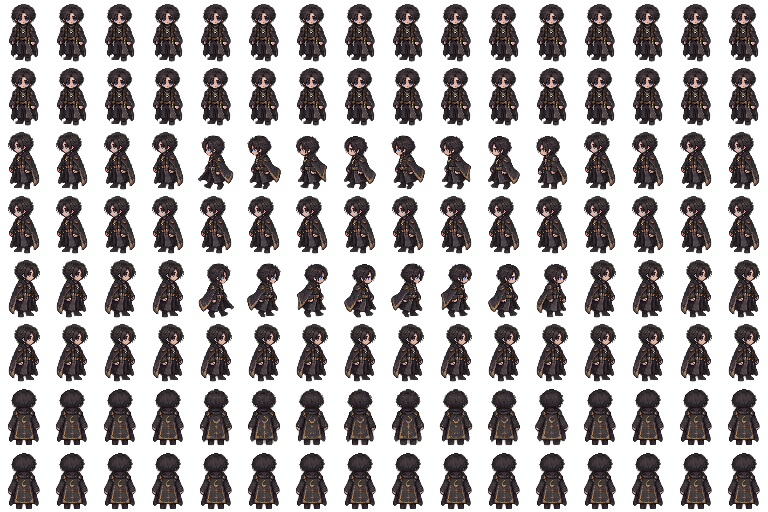
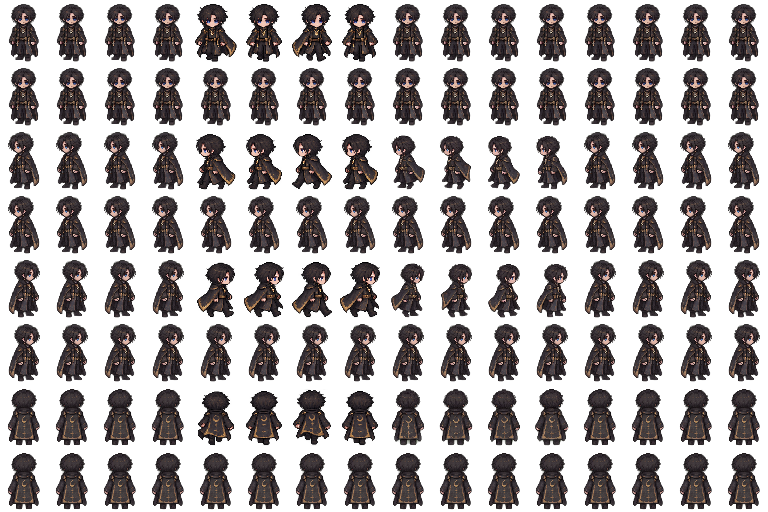
feat(peren): caminhada oficial de quatro direções no Modo Livre
* feat(peren): integrar caminhada 4 direções de 3 frames no atlas Phaser atual

* build(peren): gerar atlas v3 reproduzível a partir dos 12 quadros novos

* docs(peren): provenance quadro a quadro da caminhada nova

* feat(peren): documentar 4 caminhadas reais e ciclo 180ms no atlas

* feat(peren): documentar 4 caminhadas reais e ciclo 180ms no atlas

* feat(peren): mostrar caminhada atualizada em quatro direções na galeria do Pages

* build(peren): invalidar PWA antigo e precachear caminhada oficial v3

* build(peren): invalidar PWA antigo e precachear caminhada oficial v3

* test(peren): validar atlas v3 e manter regressões v2 independentes

* test(peren): validar atlas v3 e manter regressões v2 independentes

* test(peren): validar atlas v3 e manter regressões v2 independentes

* test(peren): validar atlas v3 e manter regressões v2 independentes

* test(peren): comparar 12 frames oficiais pixel a pixel, preservar 112 frames legados

* ci(peren): executar testes de pixels e integridade dos ciclos novos de caminhada

* docs(peren): explicar integração da caminhada oficial 4×3 e limites técnicos

* docs(peren): explicar integração da caminhada oficial 4×3 e limites técnicos

* docs(peren): explicar integração da caminhada oficial 4×3 e limites técnicos

diff --git a/phaser-demo-m1hf/demo-sw.js b/phaser-demo-m1hf/demo-sw.js
@@ -1,8 +1,8 @@
-const CACHE="peren-phaser-m1hf-preview-qa-stable-v2-20261021";
+const CACHE="peren-phaser-m1hf-preview-walk-v3-20261021";
 
 const CACHE_PREFIX="peren-phaser-m1hf-preview-";
 
-const FILES=["./","./art/battle/murin-battle.webp","./art/characters/peren/atlas.json","./art/characters/peren/peren-atlas.png","./art/characters/peren/portrait-cast.png","./art/characters/peren/portrait-hurt.png","./art/characters/peren/portrait.png","./art/monsters/mob-ettercap/atlas.png","./art/monsters/mob-ettercap/meta.json","./art/monsters/mob-ettercap/portrait.png","./art/monsters/mob-fungo-violeta/atlas.png","./art/monsters/mob-fungo-violeta/meta.json","./art/monsters/mob-fungo-violeta/portrait.png","./art/monsters/mob-galho-infectado/atlas.png","./art/monsters/mob-galho-infectado/meta.json","./art/monsters/mob-galho-infectado/portrait.png","./art/regions/floresta-murin/bush.png","./art/regions/floresta-murin/exit.png","./art/regions/floresta-murin/ground-tiles.png","./art/regions/floresta-murin/herb.png","./art/regions/floresta-murin/mushroom.png","./art/regions/floresta-murin/rune.png","./art/regions/floresta-murin/stone.png","./art/regions/floresta-murin/tree-0.png","./art/regions/floresta-murin/tree-1.png","./art/regions/floresta-murin/tree-2.png","./art/regions/portomonte/visao-carcaca.webp","./art/vfx/arcane.png","./art/vfx/fire.png","./art/vfx/ice.png","./art-m1h/characters/peren/peren-atlas.png","./art-m1h/characters/peren/portrait-cast.png","./art-m1h/characters/peren/portrait-hurt.png","./art-m1h/characters/peren/portrait.png","./art-m1h/characters/peren/report.json","./art-m1hb/characters/peren/peren-atlas.png","./art-m1hb/characters/peren/portrait-cast.png","./art-m1hb/characters/peren/portrait-hurt.png","./art-m1hb/characters/peren/portrait.png","./art-m1hb/characters/peren/report.json","./art-m1hc/characters/peren/peren-atlas.png","./art-m1hc/characters/peren/portrait-cast.png","./art-m1hc/characters/peren/portrait-hurt.png","./art-m1hc/characters/peren/portrait.png","./art-m1hc/characters/peren/report.json","./art-m1hd/characters/peren/peren-atlas.png","./art-m1hd/characters/peren/portrait-cast.png","./art-m1hd/characters/peren/portrait-hurt.png","./art-m1hd/characters/peren/portrait.png","./art-m1hd/characters/peren/report.json","./art-m1he/monsters/mob-ettercap/atlas.png","./art-m1he/monsters/mob-ettercap/portrait.png","./art-m1he/monsters/mob-fungo-violeta/atlas.png","./art-m1he/monsters/mob-fungo-violeta/portrait.png","./art-m1he/monsters/mob-galho-infectado/atlas.png","./art-m1he/monsters/mob-galho-infectado/portrait.png","./art-m1he/monsters/report.json","./art-m1hf/kenney-monster-builder/arm_darkB.png","./art-m1hf/kenney-monster-builder/body_darkC.png","./art-m1hf/kenney-monster-builder/detail_dark_eye.png","./art-m1hf/kenney-monster-builder/leg_darkB.png","./art-m1hf/kenney-mushrooms/shroomRedMid.png","./art-m1hf/kenney-mushrooms/stemShroom.png","./art-m1hf/kenney-mushrooms/tallShroom_red.png","./art-m1hf/kenney-mushrooms/tinyShroom_red.png","./art-m1hf/kenney-platformer-spider/spider.png","./art-m1hf/kenney-platformer-spider/spider_dead.png","./art-m1hf/kenney-platformer-spider/spider_hit.png","./art-m1hf/kenney-platformer-spider/spider_walk1.png","./art-m1hf/kenney-platformer-spider/spider_walk2.png","./art-m1hf/monsters/mob-ettercap/atlas.png","./art-m1hf/monsters/mob-ettercap/portrait.png","./art-m1hf/monsters/mob-fungo-violeta/atlas.png","./art-m1hf/monsters/mob-fungo-violeta/portrait.png","./art-m1hf/monsters/mob-galho-infectado/atlas.png","./art-m1hf/monsters/mob-galho-infectado/portrait.png","./art-m1hf/monsters/report.json","./art-m1hf/oga-forest/forest_tiles.png","./asset-audition.html","./assets/game-B5Gp97dd.js","./assets/game-BTyR319X.css","./compare.html","./data/cidades.json","./data/itens.json","./data/magias.json","./data/monstros.json","./data/receitas.json","./field-gamepad-adapter.js","./field-gamepad.js","./icons/icon-192.png","./icons/icon-512.png","./index.html","./manifest.webmanifest","./review.html","./scenes/merchants/alina.svg","./scenes/merchants/jonathan.svg","./scenes/merchants/sofia.svg","./scenes/portomonte-market.svg","./scenes/portomonte-workshop.svg","./teste.html","./peren-arte.html","./art/characters/peren/official-v2/peren-portrait-official-128.png","./art/characters/peren/official-v2/peren-portrait-official-256.png","./art/characters/peren/official-v2/peren-actor-official-128.png","./art/characters/peren/official-v2/peren-atlas-official-48x64.png","./art/characters/peren/official-v2/runtime-provenance.json"];
+const FILES=["./","./art/battle/murin-battle.webp","./art/characters/peren/atlas.json","./art/characters/peren/peren-atlas.png","./art/characters/peren/portrait-cast.png","./art/characters/peren/portrait-hurt.png","./art/characters/peren/portrait.png","./art/monsters/mob-ettercap/atlas.png","./art/monsters/mob-ettercap/meta.json","./art/monsters/mob-ettercap/portrait.png","./art/monsters/mob-fungo-violeta/atlas.png","./art/monsters/mob-fungo-violeta/meta.json","./art/monsters/mob-fungo-violeta/portrait.png","./art/monsters/mob-galho-infectado/atlas.png","./art/monsters/mob-galho-infectado/meta.json","./art/monsters/mob-galho-infectado/portrait.png","./art/regions/floresta-murin/bush.png","./art/regions/floresta-murin/exit.png","./art/regions/floresta-murin/ground-tiles.png","./art/regions/floresta-murin/herb.png","./art/regions/floresta-murin/mushroom.png","./art/regions/floresta-murin/rune.png","./art/regions/floresta-murin/stone.png","./art/regions/floresta-murin/tree-0.png","./art/regions/floresta-murin/tree-1.png","./art/regions/floresta-murin/tree-2.png","./art/regions/portomonte/visao-carcaca.webp","./art/vfx/arcane.png","./art/vfx/fire.png","./art/vfx/ice.png","./art-m1h/characters/peren/peren-atlas.png","./art-m1h/characters/peren/portrait-cast.png","./art-m1h/characters/peren/portrait-hurt.png","./art-m1h/characters/peren/portrait.png","./art-m1h/characters/peren/report.json","./art-m1hb/characters/peren/peren-atlas.png","./art-m1hb/characters/peren/portrait-cast.png","./art-m1hb/characters/peren/portrait-hurt.png","./art-m1hb/characters/peren/portrait.png","./art-m1hb/characters/peren/report.json","./art-m1hc/characters/peren/peren-atlas.png","./art-m1hc/characters/peren/portrait-cast.png","./art-m1hc/characters/peren/portrait-hurt.png","./art-m1hc/characters/peren/portrait.png","./art-m1hc/characters/peren/report.json","./art-m1hd/characters/peren/peren-atlas.png","./art-m1hd/characters/peren/portrait-cast.png","./art-m1hd/characters/peren/portrait-hurt.png","./art-m1hd/characters/peren/portrait.png","./art-m1hd/characters/peren/report.json","./art-m1he/monsters/mob-ettercap/atlas.png","./art-m1he/monsters/mob-ettercap/portrait.png","./art-m1he/monsters/mob-fungo-violeta/atlas.png","./art-m1he/monsters/mob-fungo-violeta/portrait.png","./art-m1he/monsters/mob-galho-infectado/atlas.png","./art-m1he/monsters/mob-galho-infectado/portrait.png","./art-m1he/monsters/report.json","./art-m1hf/kenney-monster-builder/arm_darkB.png","./art-m1hf/kenney-monster-builder/body_darkC.png","./art-m1hf/kenney-monster-builder/detail_dark_eye.png","./art-m1hf/kenney-monster-builder/leg_darkB.png","./art-m1hf/kenney-mushrooms/shroomRedMid.png","./art-m1hf/kenney-mushrooms/stemShroom.png","./art-m1hf/kenney-mushrooms/tallShroom_red.png","./art-m1hf/kenney-mushrooms/tinyShroom_red.png","./art-m1hf/kenney-platformer-spider/spider.png","./art-m1hf/kenney-platformer-spider/spider_dead.png","./art-m1hf/kenney-platformer-spider/spider_hit.png","./art-m1hf/kenney-platformer-spider/spider_walk1.png","./art-m1hf/kenney-platformer-spider/spider_walk2.png","./art-m1hf/monsters/mob-ettercap/atlas.png","./art-m1hf/monsters/mob-ettercap/portrait.png","./art-m1hf/monsters/mob-fungo-violeta/atlas.png","./art-m1hf/monsters/mob-fungo-violeta/portrait.png","./art-m1hf/monsters/mob-galho-infectado/atlas.png","./art-m1hf/monsters/mob-galho-infectado/portrait.png","./art-m1hf/monsters/report.json","./art-m1hf/oga-forest/forest_tiles.png","./asset-audition.html","./assets/game-B5Gp97dd.js","./assets/game-BTyR319X.css","./compare.html","./data/cidades.json","./data/itens.json","./data/magias.json","./data/monstros.json","./data/receitas.json","./field-gamepad-adapter.js","./field-gamepad.js","./icons/icon-192.png","./icons/icon-512.png","./index.html","./manifest.webmanifest","./review.html","./scenes/merchants/alina.svg","./scenes/merchants/jonathan.svg","./scenes/merchants/sofia.svg","./scenes/portomonte-market.svg","./scenes/portomonte-workshop.svg","./teste.html","./peren-arte.html","./art/characters/peren/official-v2/peren-portrait-official-128.png","./art/characters/peren/official-v2/peren-portrait-official-256.png","./art/characters/peren/official-v2/peren-actor-official-128.png","./art/characters/peren/official-v2/peren-atlas-official-48x64.png","./art/characters/peren/official-v2/runtime-provenance.json","./art/characters/peren/official-v3/peren-atlas-official-48x64.png","./art/characters/peren/official-v3/peren-caminhada-3x4-original-160x190.png","./art/characters/peren/official-v3/runtime-provenance.json"];
 
 self.addEventListener('install',event=>{event.waitUntil(caches.open(CACHE).then(cache=>cache.addAll(FILES)).then(()=>self.skipWaiting()))});
 

diff --git a/phaser-demo-m1hf/peren-arte.html b/phaser-demo-m1hf/peren-arte.html
@@ -32,19 +32,20 @@ small{display:block;color:#b9c6bf}.notice{padding:13px;border-left:3px solid #dd
 <div class="card"><canvas width="48" height="64" data-dir="2" aria-label="Peren olhando para a direita"></canvas><strong>Direita</strong></div>
 <div class="card"><canvas width="48" height="64" data-dir="3" aria-label="Peren de costas"></canvas><strong>Costas</strong></div>
 </div>
-<p class="notice">AUDITORIA V2: câmera/escala/posição dos pés estabilizadas; cores originais preservadas. Há caminhada lateral e movimento de capa visto por trás. Frente sem passos e gestos de interação, coleta, ferimento, magia ou ataque são quadros estáticos intencionais até recebermos sprites próprios. Nada disso representa uma animação nova aprovada.</p>
+<p class="notice">ATUALIZAÇÃO V3: caminhada real com três quadros por direção — frente, esquerda, direita e costas. Sequência 1 → 2 → 3 → 2; 180 ms/quadro. O terceiro quadro da esquerda já veio espelhado no pacote original. Ações de coleta, interação, ferimento, magia e ataque continuam com poses estáticas até receberem desenhos próprios.</p>
 <small id="status" role="status">Preparando atlas...</small>
 </main>
 <script>
 const picture=new Image();
-picture.src="./art/characters/peren/official-v2/peren-atlas-official-48x64.png";
+picture.src="./art/characters/peren/official-v3/peren-atlas-official-48x64.png";
 const directions=[...document.querySelectorAll("canvas[data-dir]")];
 const actions=["idle","walk","run","interact","gather","hurt","cast","attack"];
 let ready=false,last=0,frame=0;
-picture.onload=()=>{if(picture.naturalWidth!==768||picture.naturalHeight!==512){document.getElementById("status").textContent="Erro nas dimensões do atlas.";return}ready=true;document.getElementById("status").textContent="128 quadros · 48×64 px · correção de alinhamento · movimentos incompletos sinalizados";requestAnimationFrame(render)};
+picture.onload=()=>{if(picture.naturalWidth!==768||picture.naturalHeight!==512){document.getElementById("status").textContent="Erro nas dimensões do atlas.";return}ready=true;document.getElementById("status").textContent="128 quadros · 48×64 px · caminhada 4 direções × 3 poses (1–2–3–2) · 180 ms";requestAnimationFrame(render)};
 picture.onerror=()=>{document.getElementById("status").textContent="Não foi possível carregar o atlas offline."};
 function render(time){
- if(ready&&time-last>=125){
+ const isWalk=document.getElementById("action").value==="walk";
+ if(ready&&time-last>=(isWalk?180:125)){
   last=time;frame=(frame+1)%4;
   const action=Math.max(0,actions.indexOf(document.getElementById("action").value));
   for(const canvas of directions){

diff --git a/phaser-demo/demo-sw.js b/phaser-demo/demo-sw.js
@@ -1,4 +1,4 @@
-const CACHE="peren-phaser-demo-peren-stable-v2-20261021";
+const CACHE="peren-phaser-demo-peren-walk-v3-20261021";
 
 const FILES=["./","./art/battle/murin-battle.webp","./art/characters/peren/atlas.json","./art/characters/peren/peren-atlas.png","./art/characters/peren/portrait.png","./art/monsters/mob-ettercap/atlas.png","./art/monsters/mob-ettercap/meta.json","./art/monsters/mob-ettercap/portrait.png","./art/monsters/mob-fungo-violeta/atlas.png","./art/monsters/mob-fungo-violeta/meta.json","./art/monsters/mob-fungo-violeta/portrait.png","./art/monsters/mob-galho-infectado/atlas.png","./art/monsters/mob-galho-infectado/meta.json","./art/monsters/mob-galho-infectado/portrait.png","./art/regions/floresta-murin/bush.png","./art/regions/floresta-murin/exit.png","./art/regions/floresta-murin/ground-tiles.png","./art/regions/floresta-murin/herb.png","./art/regions/floresta-murin/mushroom.png","./art/regions/floresta-murin/rune.png","./art/regions/floresta-murin/stone.png","./art/regions/floresta-murin/tree-0.png","./art/regions/floresta-murin/tree-1.png","./art/regions/floresta-murin/tree-2.png","./art/vfx/arcane.png","./art/vfx/fire.png","./art/vfx/ice.png","./assets/index-B4hcnmDl.js","./data/cidades.json","./data/itens.json","./data/magias.json","./data/monstros.json","./data/receitas.json","./icons/icon-192.png","./icons/icon-512.png","./index.html","./manifest.webmanifest"];
 

diff --git a/ferramentas/gerar_peren_caminhada_v3.py b/ferramentas/gerar_peren_caminhada_v3.py
@@ -1,0 +1,89 @@
+#!/usr/bin/env python3
+"""Rebuild 128-frame runtime atlas with 12 new approved 4-direction walking frames.
+Preserves existing non-walk pose mappings and 48x64 frame indices. No fabrication of other actions.
+"""
+from __future__ import annotations
+from pathlib import Path
+import zipfile,hashlib,io,json,argparse
+from PIL import Image
+
[1 lines of base64/hex data omitted]
+BASE='Peren_Kerrhylon_Assets/'
+NAMES=['01_idle_tres_quartos_esquerda','02_idle_frente','03_idle_tres_quartos_direita','04_idle_perfil_direito','05_idle_costas_a','06_idle_costas_b','07_caminhada_esquerda_passo_01','08_caminhada_esquerda_passo_02','09_caminhada_esquerda_passo_03','10_caminhada_esquerda_passo_04','11_caminhada_esquerda_passo_05','12_idle_costas_c','13_costas_capa_01','14_costas_capa_02','15_costas_capa_03','16_costas_capa_04','17_frente_capa_em_movimento','18_costas_capa_05']
+ACTIONS=['idle','walk','run','interact','gather','hurt','cast','attack']
+DIRECTIONS=['down','left','right','up']
+OLD={
+'down':{'idle':[1]*4,'walk':[1]*4,'run':[1]*4,'interact':[1]*4,'gather':[1]*4,'hurt':[1]*4,'cast':[1]*4,'attack':[1]*4},
+'left':{'idle':[0]*4,'walk':[6,7,8,9],'run':[7,8,9,10],'interact':[0]*4,'gather':[0]*4,'hurt':[0]*4,'cast':[0]*4,'attack':[0]*4},
+'right':{'idle':[0]*4,'walk':[6,7,8,9],'run':[7,8,9,10],'interact':[0]*4,'gather':[0]*4,'hurt':[0]*4,'cast':[0]*4,'attack':[0]*4},
+'up':{'idle':[4]*4,'walk':[12,13,14,15],'run':[13,14,15,17],'interact':[4]*4,'gather':[4]*4,'hurt':[4]*4,'cast':[4]*4,'attack':[4]*4},
+}
+
+def source_zip(zpath:Path):
+    data=zpath.read_bytes(); digest=hashlib.sha256(data).hexdigest()
+    if digest!=OFFICIAL_ZIP_SHA256: raise ValueError('Pacote novo diferente do ZIP aprovado: '+digest)
+    return zipfile.ZipFile(io.BytesIO(data)),digest
+
+def build(zpath:Path,out:Path):
+    out.mkdir(parents=True,exist_ok=True)
+    z,digest=source_zip(zpath)
+    def image(n):
+        return Image.open(io.BytesIO(z.read(BASE+n))).convert('RGBA')
+    poses=[image('charset/alinhados/'+n+'.png') for n in NAMES]
+    walk={direction:[image(f'charset/caminhada/frames/{direction}/peren_{direction}_frame_{i:02d}.png') for i in [1,2,3]] for direction in ['frente','esquerda','direita','costas']}
+    assert all(im.size==(160,190) for im in poses)
+    assert all(im.size==(160,190) for frames in walk.values() for im in frames)
+    srcatlas=image('charset/caminhada/atlas/peren_caminhada_3col_4lin_160x190.png')
+    assert srcatlas.size==(480,760)
+    for row,d in enumerate(['frente','esquerda','direita','costas']):
+        for col in range(3):
+            assert srcatlas.crop((col*160,row*190,(col+1)*160,(row+1)*190)).tobytes()==walk[d][col].tobytes()
+    # Existing atlas v2 computed in-place so no change to non-walk frames.
+    atlas=Image.new('RGBA',(768,512))
+    history=[]
+    for di,direction in enumerate(DIRECTIONS):
+        for ai,action in enumerate(ACTIONS):
+            for fi in range(4):
+                idx=di*32+ai*4+fi
+                iswalk=action=='walk'
+                if iswalk:
+                    source_index=[0,1,2,1][fi]
+                    source_dir={'down':'frente','left':'esquerda','right':'direita','up':'costas'}[direction]
+                    source=walk[source_dir][source_index]
+                    # New official sprites are wider than old; common registration retains cape/hair.
+                    # Fixed crop/scale/anchor; do NOT normalize bbox independently per frame.
+                    crop=(15,15,145,185)
+                    frame=source.crop(crop).resize((44,59),Image.Resampling.NEAREST)
+                    xpad=2
+                    note='new_official_walk'
+                    source_name=f'charset/caminhada/frames/{source_dir}/peren_{source_dir}_frame_{source_index+1:02d}.png'
+                    mirror=source_dir=='esquerda' and source_index==2 # internal original source mirrored, not runtime flipped
+                else:
+                    pindex=OLD[direction][action][fi]
+                    source=poses[pindex]
+                    frame=source.crop((20,18,140,185)).resize((42,59),Image.Resampling.NEAREST)
+                    if direction=='right':frame=frame.transpose(Image.Transpose.FLIP_LEFT_RIGHT)
+                    xpad=3
+                    note='unchanged_v2_mapping'
+                    source_name='charset/alinhados/'+NAMES[pindex]+'.png'
+                    mirror=direction=='right'
+                tx=(idx%16)*48+xpad
+                ty=(idx//16)*64+3
+                atlas.alpha_composite(frame,(tx,ty))
+                history.append({'index':idx,'direction':direction,'action':action,'cycleIndex':fi,'file':source_name,'mirrored':mirror,'origin':note})
+    out_atlas=out/'peren-atlas-official-48x64.png'
+    atlas.save(out_atlas,optimize=True)
+    original=out/'peren-caminhada-3x4-original-160x190.png';original.write_bytes(z.read(BASE+'charset/caminhada/atlas/peren_caminhada_3col_4lin_160x190.png'))
+    report={'schema':'peren-official-walk-v3','source_zip_sha256':digest,'source_walk_sha256':hashlib.sha256(original.read_bytes()).hexdigest(),'frameSize':[48,64],'atlasSize':[768,512],'framesTotal':128,'walkDirectionOrder':DIRECTIONS,'sourceRows':['frente','esquerda','direita','costas'],'walkLoop':'1 → 2 → 3 → 2','sourceFrameMs':180,'runtimeFps':5.5555555556,'walkIndices':{d:[i*32+4+j for j in range(4)] for i,d in enumerate(DIRECTIONS)},'originalLeftFrame03Mirrored':True,'otherActions':'v2 preserved; no new attacks, gathering, cast, hurt, interact or running assets','frames':history}
+    (out/'runtime-provenance.json').write_text(json.dumps(report,indent=2,ensure_ascii=False)+'\n',encoding='utf-8')
+    contact=Image.new('RGBA',(4*48*4,64),(17,28,32,255))
+    for di in range(4):
+        for f in range(4):
+            index=di*32+4+f;x=(index%16)*48;y=(index//16)*64
+            contact.alpha_composite(atlas.crop((x,y,x+48,y+64)),(di*192+f*48,0))
+    contact.resize((1536,128),Image.Resampling.NEAREST).save(out/'walk-contact-v3.png')
+    print(json.dumps({str(p.name):{'size':p.stat().st_size,'sha256':hashlib.sha256(p.read_bytes()).hexdigest()} for p in out.iterdir()},indent=2))
+
+if __name__=='__main__':
+    ap=argparse.ArgumentParser();ap.add_argument('--zip',type=Path,required=True);ap.add_argument('--output',type=Path,required=True)
+    args=ap.parse_args();build(args.zip,args.output)

diff --git a/tests/qa_peren_walk_v3.py b/tests/qa_peren_walk_v3.py
@@ -1,0 +1,49 @@
+"""Pixel-by-pixel checks for approved four-direction 3-frame walk, no invented gestures."""
+from pathlib import Path
+from PIL import Image,ImageChops
+import hashlib,json
+ROOT=Path(__file__).resolve().parents[1]
+BASE=ROOT/"phaser-demo-m1hf/art/characters/peren"
+V3=BASE/"official-v3"
+V2=BASE/"official-v2/peren-atlas-official-48x64.png"
+atlas=Image.open(V3/"peren-atlas-official-48x64.png").convert("RGBA")
+old=Image.open(V2).convert("RGBA")
+source=Image.open(V3/"peren-caminhada-3x4-original-160x190.png").convert("RGBA")
+meta=json.loads((V3/"runtime-provenance.json").read_text())
+assert atlas.size==old.size==(768,512)
+assert source.size==(480,760)
+assert atlas.mode=="RGBA"
[2 lines of base64/hex data omitted]
+assert meta["schema"]=="peren-official-walk-v3"
+assert meta["walkLoop"]=="1 → 2 → 3 → 2"
+assert meta["sourceFrameMs"]==180
+assert meta["originalLeftFrame03Mirrored"] is True
+
+def tile(img,i):
+ x=(i%16)*48;y=(i//16)*64
+ return img.crop((x,y,x+48,y+64))
+
+# Verify every runtime walk image matches exactly the source frame with one fixed
+# crop and anchor. The fourth frame is the second pose, not a fabricated fourth.
+walk_frames=set()
+for row,direction in enumerate(["down","left","right","up"]):
+ for i,k in enumerate([0,1,2,1]):
+  index=row*32+4+i;walk_frames.add(index)
+  expected=Image.new("RGBA",(48,64))
+  extracted=source.crop((k*160,row*190,(k+1)*160,(row+1)*190))
+  expected.alpha_composite(extracted.crop((15,15,145,185)).resize((44,59),Image.Resampling.NEAREST),(2,3))
+  actual=tile(atlas,index)
+  assert actual.tobytes()==expected.tobytes(),f"{direction} frame {i} mismatch"
+  bbox=actual.getchannel("A").getbbox()
+  assert bbox is not None and bbox[2]<48 and bbox[3]==62, f"Bad feet/crop {direction}:{i} {bbox}"
+ assert len({tile(atlas,row*32+4+i).tobytes() for i in range(4)})==3
+
+# Walk-only change: all 112 other cells match previous version precisely.
+for i in range(128):
+ if i not in walk_frames:
+  assert tile(atlas,i).tobytes()==tile(old,i).tobytes(),f"Non-walk frame changed: {i}"
+assert len(walk_frames)==16
+for dest in [BASE/"peren-atlas.png",ROOT/"phaser-demo/art/characters/peren/peren-atlas.png"]:
+ assert dest.read_bytes()==(V3/"peren-atlas-official-48x64.png").read_bytes()
+print("WALK V3 PASSED: 4 directions, 3 real poses, 1-2-3-2 loop, 112 legacy frames unchanged.")

diff --git a/tests/qa_peren_frames.py b/tests/qa_peren_frames.py
@@ -63,7 +63,9 @@ for name,(expected_hash,shape) in expected_files.items():
  assert path.is_file(),f'Missing runtime art: {name}'
  assert hashlib.sha256(path.read_bytes()).hexdigest()==expected_hash,f'Unexpected sprite content: {name}'
  assert Image.open(path).size==shape
+# Legacy v2 remains archived and unmodified; live assets must match new walk-v3 instead.
+V3=BASE/'official-v3/peren-atlas-official-48x64.png'
 for path in [BASE/'peren-atlas.png',ROOT/'phaser-demo/art/characters/peren/peren-atlas.png']:
- assert path.read_bytes()==(DIR/'peren-atlas-official-48x64.png').read_bytes()
+ assert path.read_bytes()==V3.read_bytes()
 
 print(f'Peren sprites QA: 128 aligned frames, 4 directions, {len({hashlib.sha256(f.tobytes()).digest() for f in frames})} distinct source renderings; stable missing-action placeholders; truecolor PNGs. PASS')

diff --git a/lore/peren/ASSETS_OFICIAIS.md b/lore/peren/ASSETS_OFICIAIS.md
@@ -63,3 +63,22 @@ O runtime **v2** aplica registro comum dos 18 sprites alinhados (fonte 160×190;
 **Contrato recomendado para novos sprites:** PNG RGBA transparente, 160×190 px por quadro, pés alinhados à linha y=184 do pacote original, uma imagem por pose. Os filenames podem indicar `acao_direcao_frame_01.png`. Nunca precisamos que o criador monte o atlas 48×64; a conversão técnica fará isso de modo reproduzível. Aceitam-se outros tamanhos desde que informados e alinhados.
 
 **QA:** `tests/qa_peren_frames.py` verifica hashes e dimensões, alinhamento de todos os pés, recortes, ausência de movimentos falsos e espelhamento. `tests/qa_peren_phaser_browser.mjs` entra de fato na floresta com Phaser e guarda screenshots para inspeção. **Status:** a implementação técnica v2 foi integrada à `main` pela [PR #57](https://github.com/pedromaintenance/peren-o-bruxo/pull/57), com CI de atlas, PNGs, cenas reais e funcionamento offline aprovado. Não foi recebida nova arte de animação para os gestos faltantes; aprovação artística em dispositivo físico continua pendente.
+
+## Atualização v3 — caminhada oficial em quatro direções (21/10/2026)
+
[1 lines of base64/hex data omitted]
+
[1 lines of base64/hex data omitted]
+
+| Linha na fonte | Direção no Phaser | Índices runtime | Poses do ciclo |
+| --- | --- | --- | --- |
+| 1 | down / frente | 4–7 | 01, 02, 03, 02 |
+| 2 | left / esquerda | 36–39 | 01, 02, 03, 02 |
+| 3 | right / direita | 68–71 | 01, 02, 03, 02 |
+| 4 | up / costas | 100–103 | 01, 02, 03, 02 |
+
+O atlas ativo continua **768×512 px**, 128 quadros em 48×64. Apenas os 16 quadros de caminhada (quatro por direção) foram substituídos. Os demais 112 quadros conservam seus pixels da v2, assim como os retratos e as outras ações; **correr não recebe automaticamente sprites de caminhada nem arte inventada**.
+
+O mapeamento sugerido pelo criador é **180 ms por quadro (~5,56 FPS)**. O runtime repete a segunda pose ao fechar o ciclo `1→2→3→2`. Quadros oficiais recortados com registro fixo para evitar saltos de escala e pés desalinhados. **Advertência do ZIP:** a pose 03 para a esquerda foi espelhada da direita pelo próprio autor do novo pacote. O runtime não a espelha novamente.
+
+A conversão reproduzível está em `ferramentas/gerar_peren_caminhada_v3.py`; sua entrada é o ZIP completo, verificado pelo SHA-256. A origem dos frames consta de `official-v3/runtime-provenance.json`. A verificação pixel a pixel em `tests/qa_peren_walk_v3.py` compara todos os novos frames com o master e comprova que os outros 112 não foram alterados. O jogo continua tendo **um único Modo Livre**.

diff --git a/ROADMAP.md b/ROADMAP.md
@@ -33,7 +33,7 @@
 | ID | Prioridade | Direção autorizada | Situação |
 | --- | --- | --- | --- |
 | **L-REF** | P0 | Preservar o dossiê da mesa como referência conceitual, sem transformá-lo em objetivo automático | **Mantido** em `lore/peren/`; 21 marcos de RPG documentados, não jogáveis |
-| **L-VISUAL** | P1 | Arte visual oficial e sprites alinhados de Peren no único Modo Livre | **Auditoria v2 integrada à `main`** — [PR #57](https://github.com/pedromaintenance/peren-o-bruxo/pull/57), CI com inspeção Pillow/Node/Chromium e [screenshots de Phaser](https://github.com/pedromaintenance/peren-o-bruxo/actions/runs/39604101920) aprovados. **Pendentes para o artista:** passos frente/costas, interação, coleta, ferimento, conjuração e ataque. Testes em dispositivo físico ainda não feitos |
+| **L-VISUAL** | P1 | Peren oficial em todo o Modo Livre; caminhada fluida nas quatro direções | **Caminhada v3 candidata à integração:** 3 novos quadros por direção no atlas 48×64, ciclo 1–2–3–2, 180 ms por quadro, fonte preservada e script reproduzível. Próximos assets pendentes: ferido, coleta, interação, conjuração, ataque e corrida. Publicação e testes físicos pendentes |
 | **L-WORLD** | P1 | Enriquecer o sandbox com povos, lugares, facções e mistérios inspirados na Carcaça | **Planejar** conteúdo emergente/opcional, sem copiar linearmente cenas de mesa |
 | **L-GAMEPLAY** | P0 | Priorizar mapa, comércio, ofícios, inventário, progressão, encontros, UX, PWA e estabilidade | **Retomado** como direção do projeto |
 | **L-CORRECAO** | P0 | Remover seletor Livre/Campanha e páginas jogáveis da campanha paralela | Correção em revisão de código; histórico original recuperável no Git |

diff --git a/README.md b/README.md
@@ -31,6 +31,8 @@ O mesmo Peren de cabelo escuro, olhos azuis e manto dourado da arte aprovada apa
 
 **Auditoria v2 (21/10):** corrigidos saltos de escala/posição dos pés e perda de cor. Ações sem sprites dedicados (interagir, coletar, ferido, conjurar, atacar) usam temporariamente quadros estáticos do original, evitando o bug anterior de tocar animações de caminhada como se fossem outros gestos. Frente em movimento também usa pose estática; faltam quadros novos para animação convincente. A arte v1 segue arquivada na pasta `official-v1/`. Veja a [galeria de avaliação](https://pedromaintenance.github.io/peren-o-bruxo/phaser-demo-m1hf/peren-arte.html) e o [relatório de origem](lore/peren/ASSETS_OFICIAIS.md).
 
+**Caminhada oficial v3 (21/10/2026):** agora há **três poses novas em cada uma das quatro direções** (frente, esquerda, direita e costas), usando o ZIP `Peren_Kerrhylon_Assets_Atualizados_Caminhada(1).zip`. O atlas Phaser mantém 128 quadros de 48×64 e usa caminhada em ciclo **1–2–3–2**, com duração indicada de **180 ms/quadro**. As outras ações permanecem com seus quadros estáticos; nenhum gesto de ataque, coleta ou magia foi fabricado. [Visualizar os movimentos na galeria](https://pedromaintenance.github.io/peren-o-bruxo/phaser-demo-m1hf/peren-arte.html). O terceiro quadro de caminhada à esquerda já foi espelhado no arquivo de origem.
+
 **A atualização não migra saves, não cria segundo modo e não altera economia ou combate.** O cache offline será atualizado; não limpe os dados do navegador para forçar a atualização.
 
 ## Publicação e instalação
